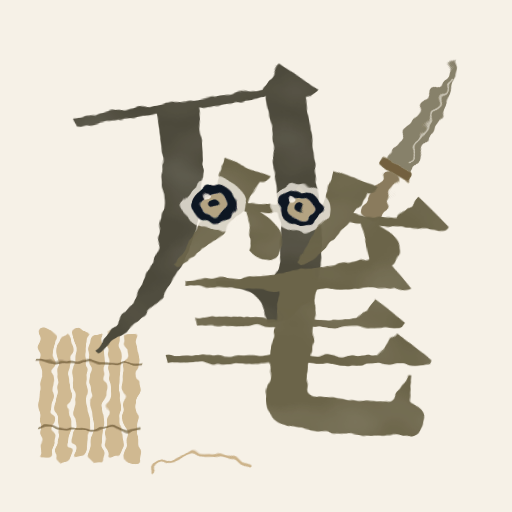
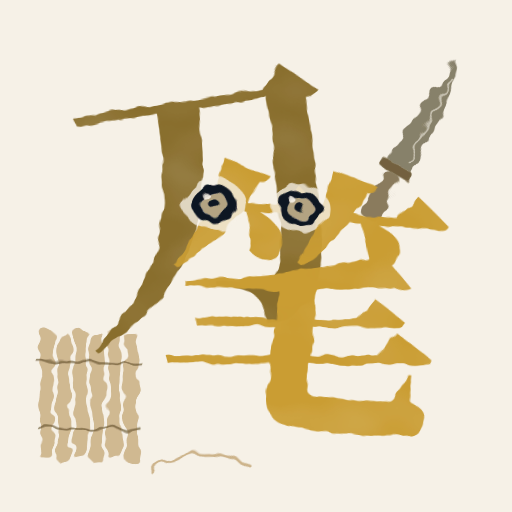
fix(mob): 金系头领亮色改取赭金 Theme.Gold
钟鼎 / 刀笔两字原用金系字形色 #6B6449,发灰褐、深浅差小;亮改 Theme.Gold(#CA9D33),
深仍为亮色向 Ink 插值 35%,其余四系不变。MobView 与 build_boss_art 预览同一推导,重出两张预览。

Changed region(s): [[0.125, 0.125, 0.875, 0.875], [0.1875, 0.6562, 0.2188, 0.6875]]

diff --git a/Brushblade/Assets/_Project/Presentation/Mobs/MobView.cs b/Brushblade/Assets/_Project/Presentation/Mobs/MobView.cs
@@ -91,6 +91,7 @@ namespace Brushblade.Presentation
         /// 着色「同系一深一亮」(控制方裁定,五系同一推导、不新增 token):
         /// 亮 = 本系字形色 <see cref="Theme.GlyphColor"/>,深 = 亮色向 <see cref="Theme.Ink"/> 插值
         /// <see cref="LeaderDeepen"/>(Color.Lerp(light, Ink, 0.35))。上字 c0 染深、下字 c1 染亮;虹膜染 ElementColor。
+        /// 金系例外(2026-10-19):亮取 <see cref="Theme.Gold"/>(字形色冷灰,两字发灰褐)。
         /// 与 build_boss_art.leader_tints 同一口径(那边只出预览)。
         ///
         /// Obscure(浊浪):没被读懂前两层都染墨色(同 Boss 非当前阶段字的 <see cref="InkTint"/>),
@@ -103,7 +104,9 @@ namespace Brushblade.Presentation
             _leaderChars = new Image[2];
             AddLayer("Char0", MobAssets.Layer(prefix, "c0"), size, out _leaderChars[0], _body);
             AddLayer("Char1", MobAssets.Layer(prefix, "c1"), size, out _leaderChars[1], _body);
-            Color light = Theme.GlyphColor(def.Element);
+            // 金系例外(2026-10-19 用户拍板):字形色冷灰,两字发灰褐、深浅差小 —— 亮改取赭金 Theme.Gold(深仍向墨 35%);
+            // 与 tools/design/build_boss_art.py 的 LEADER_LIGHT 同一推导
+            Color light = def.Element == Element.Metal ? Theme.Gold : Theme.GlyphColor(def.Element);
             _leaderTints = new[] { Color.Lerp(light, Theme.Ink, LeaderDeepen), light };
             _leaderObscure = def.Ability == EnemyAbility.Obscure;
             _face = Container("Eyes", size);

diff --git a/tools/design/build_boss_art.py b/tools/design/build_boss_art.py
@@ -547,10 +547,12 @@ def build_leader(name, slug, element, layout, eyes, holes, deco):
 
 # 预览用的运行时着色(与 MobView.InitLeaderRig 同一推导,2026-10-18 控制方裁定):
 # 亮 = 本系字形色 Theme.GlyphColor;深 = 亮色向 Theme.Ink 插值 35%(Color.Lerp(light, Ink, 0.35))。
-# 五系同一规则、不新增 token;上字 c0 染深、下字 c1 染亮。运行时若改配法,只动这里与 MobView。
+# 金系例外(2026-10-19 用户拍板):字形色 #6B6449 冷灰,两字发灰褐、深浅差小 —— 亮改取 LEADER_LIGHT 里的现有 token。
+# 不新增 token;上字 c0 染深、下字 c1 染亮。运行时若改配法,只动这里与 MobView。
 GLYPH = {"Wood": "#1F6333", "Fire": "#B02D2E", "Earth": "#82552A",
          "Metal": "#6B6449", "Water": "#0A5E9E", "Heart": "#7E4190"}
 LEADER_DEEPEN = 0.35
+LEADER_LIGHT = {"Metal": "#CA9D33"}   # Theme.Gold 赭金(0.791, 0.617, 0.199)
 
 
 def _lerp_hex(a, b, t):
@@ -561,7 +563,7 @@ def _lerp_hex(a, b, t):
 
 def leader_tints(element):
     """(上字深, 下字亮)。"""
-    light = GLYPH[element]
+    light = LEADER_LIGHT.get(element, GLYPH[element])
     return _lerp_hex(light, INK, LEADER_DEEPEN), light
 
 
